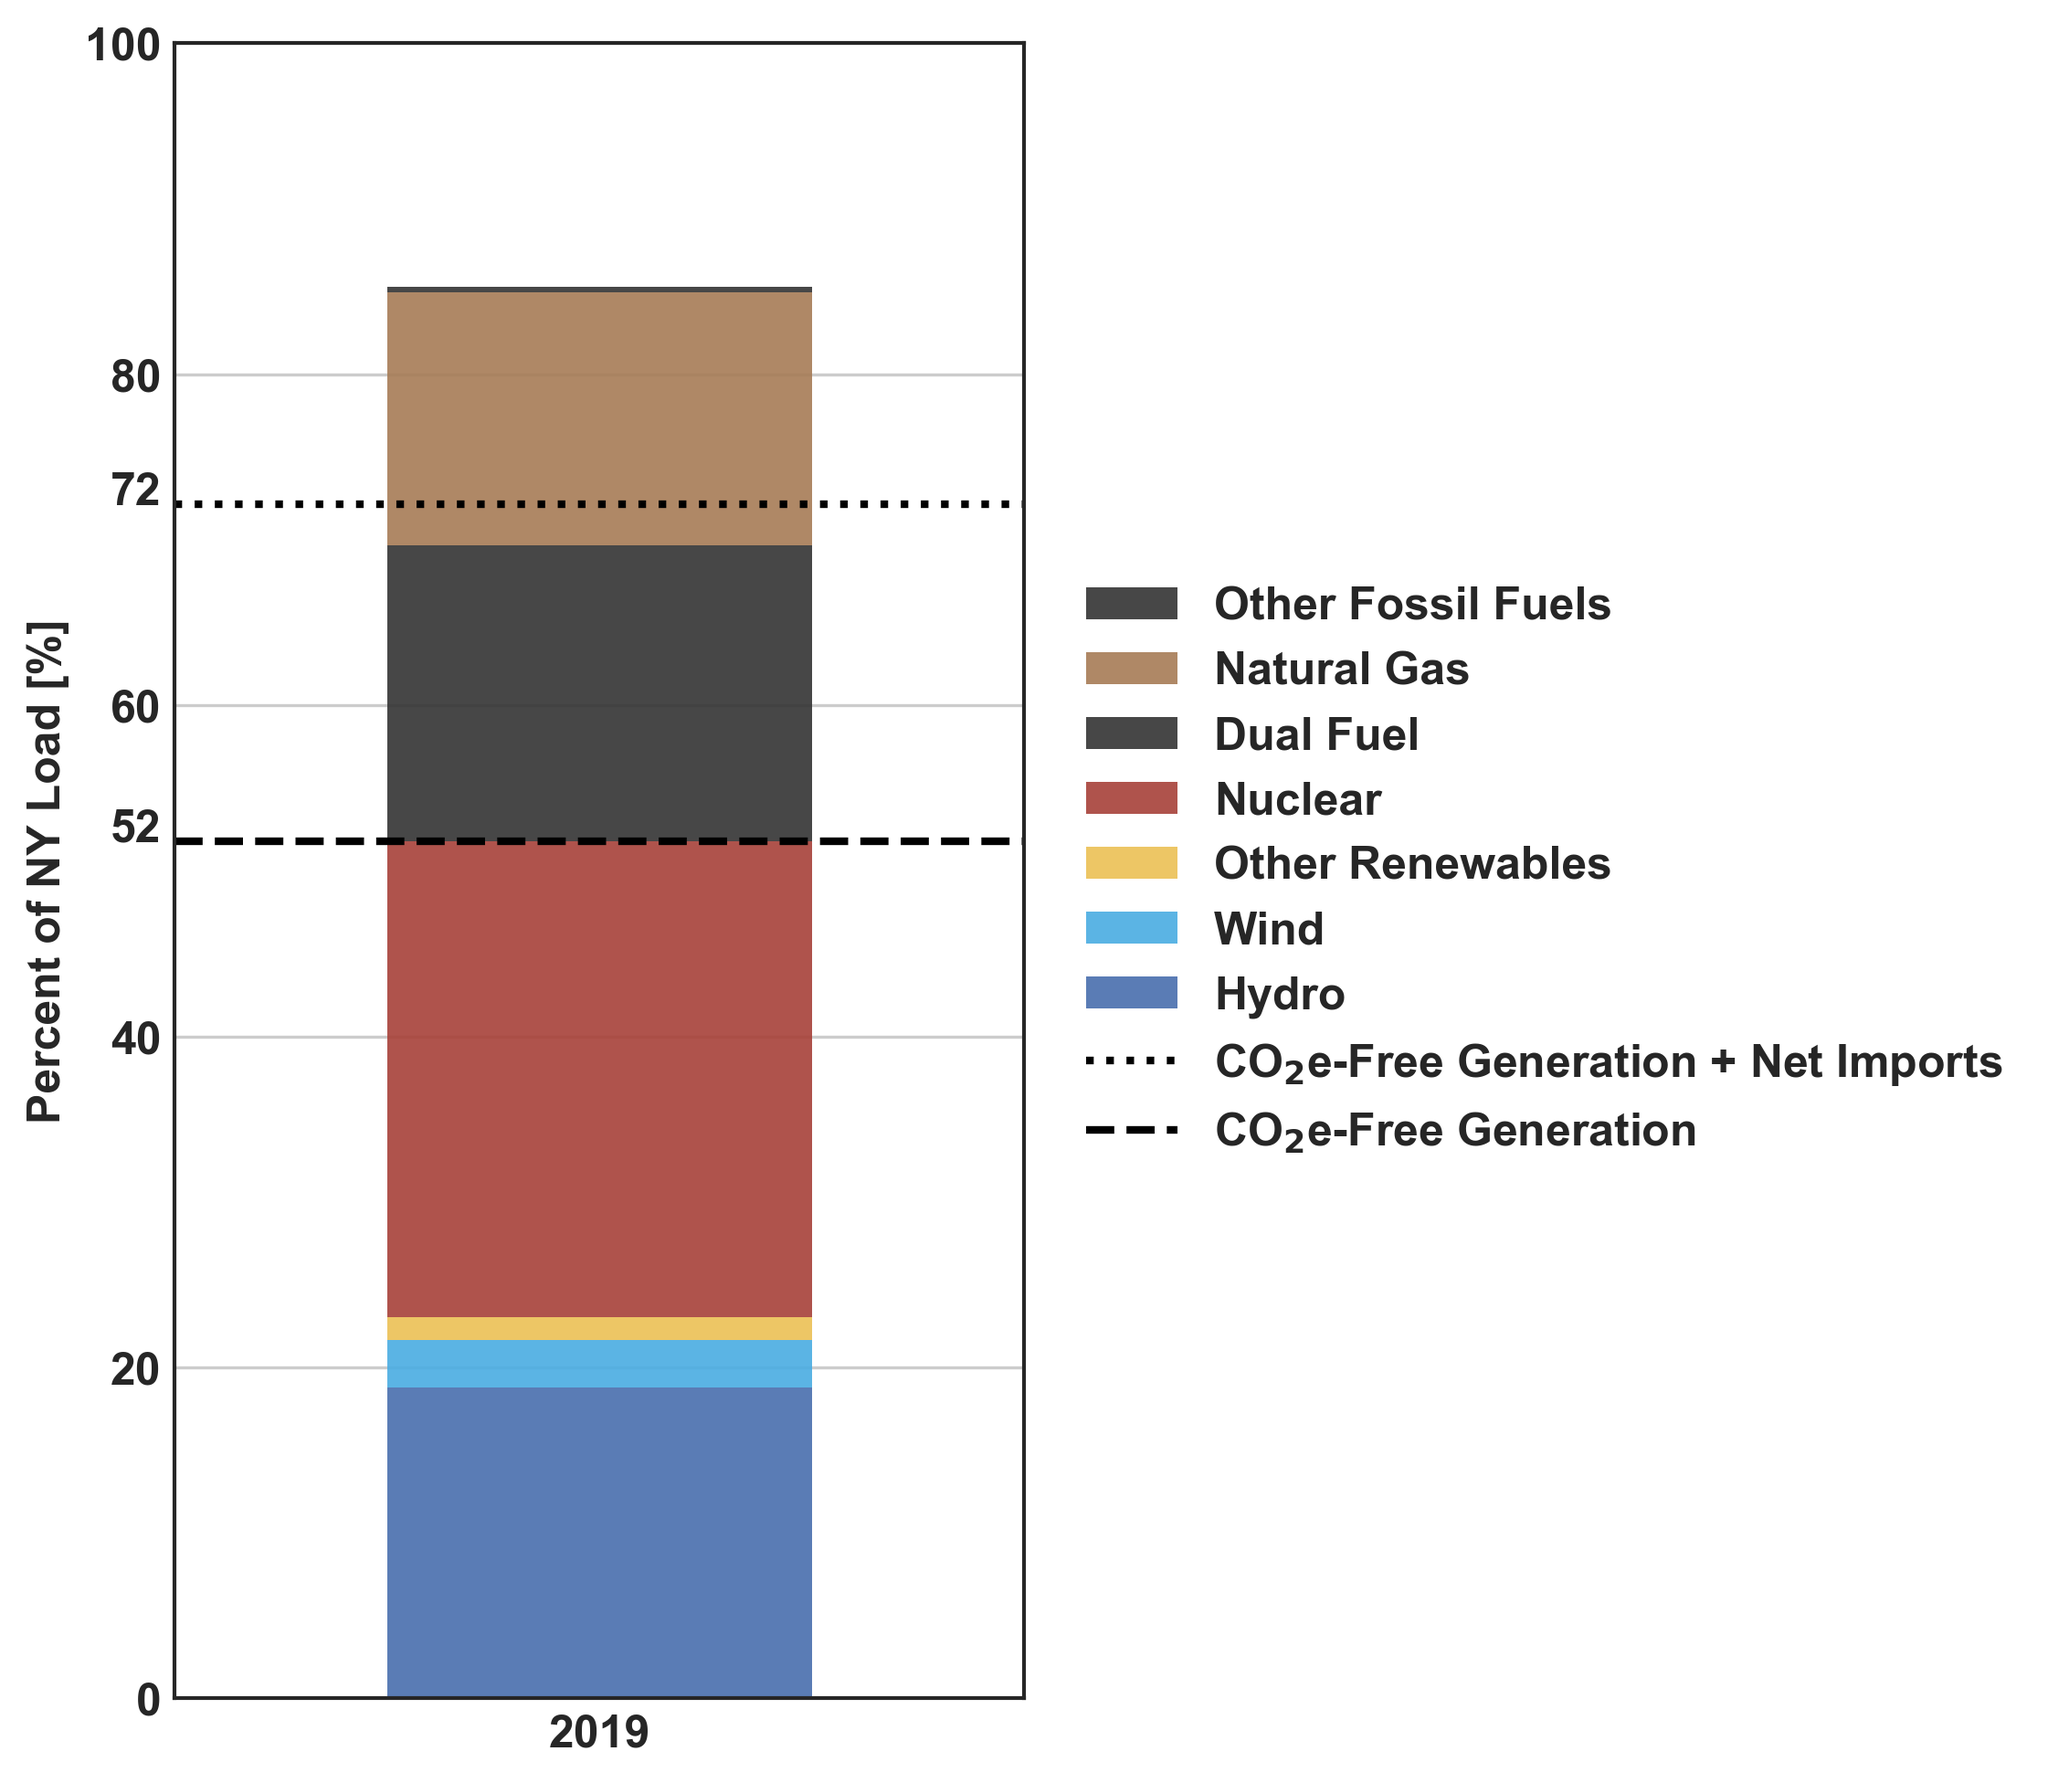
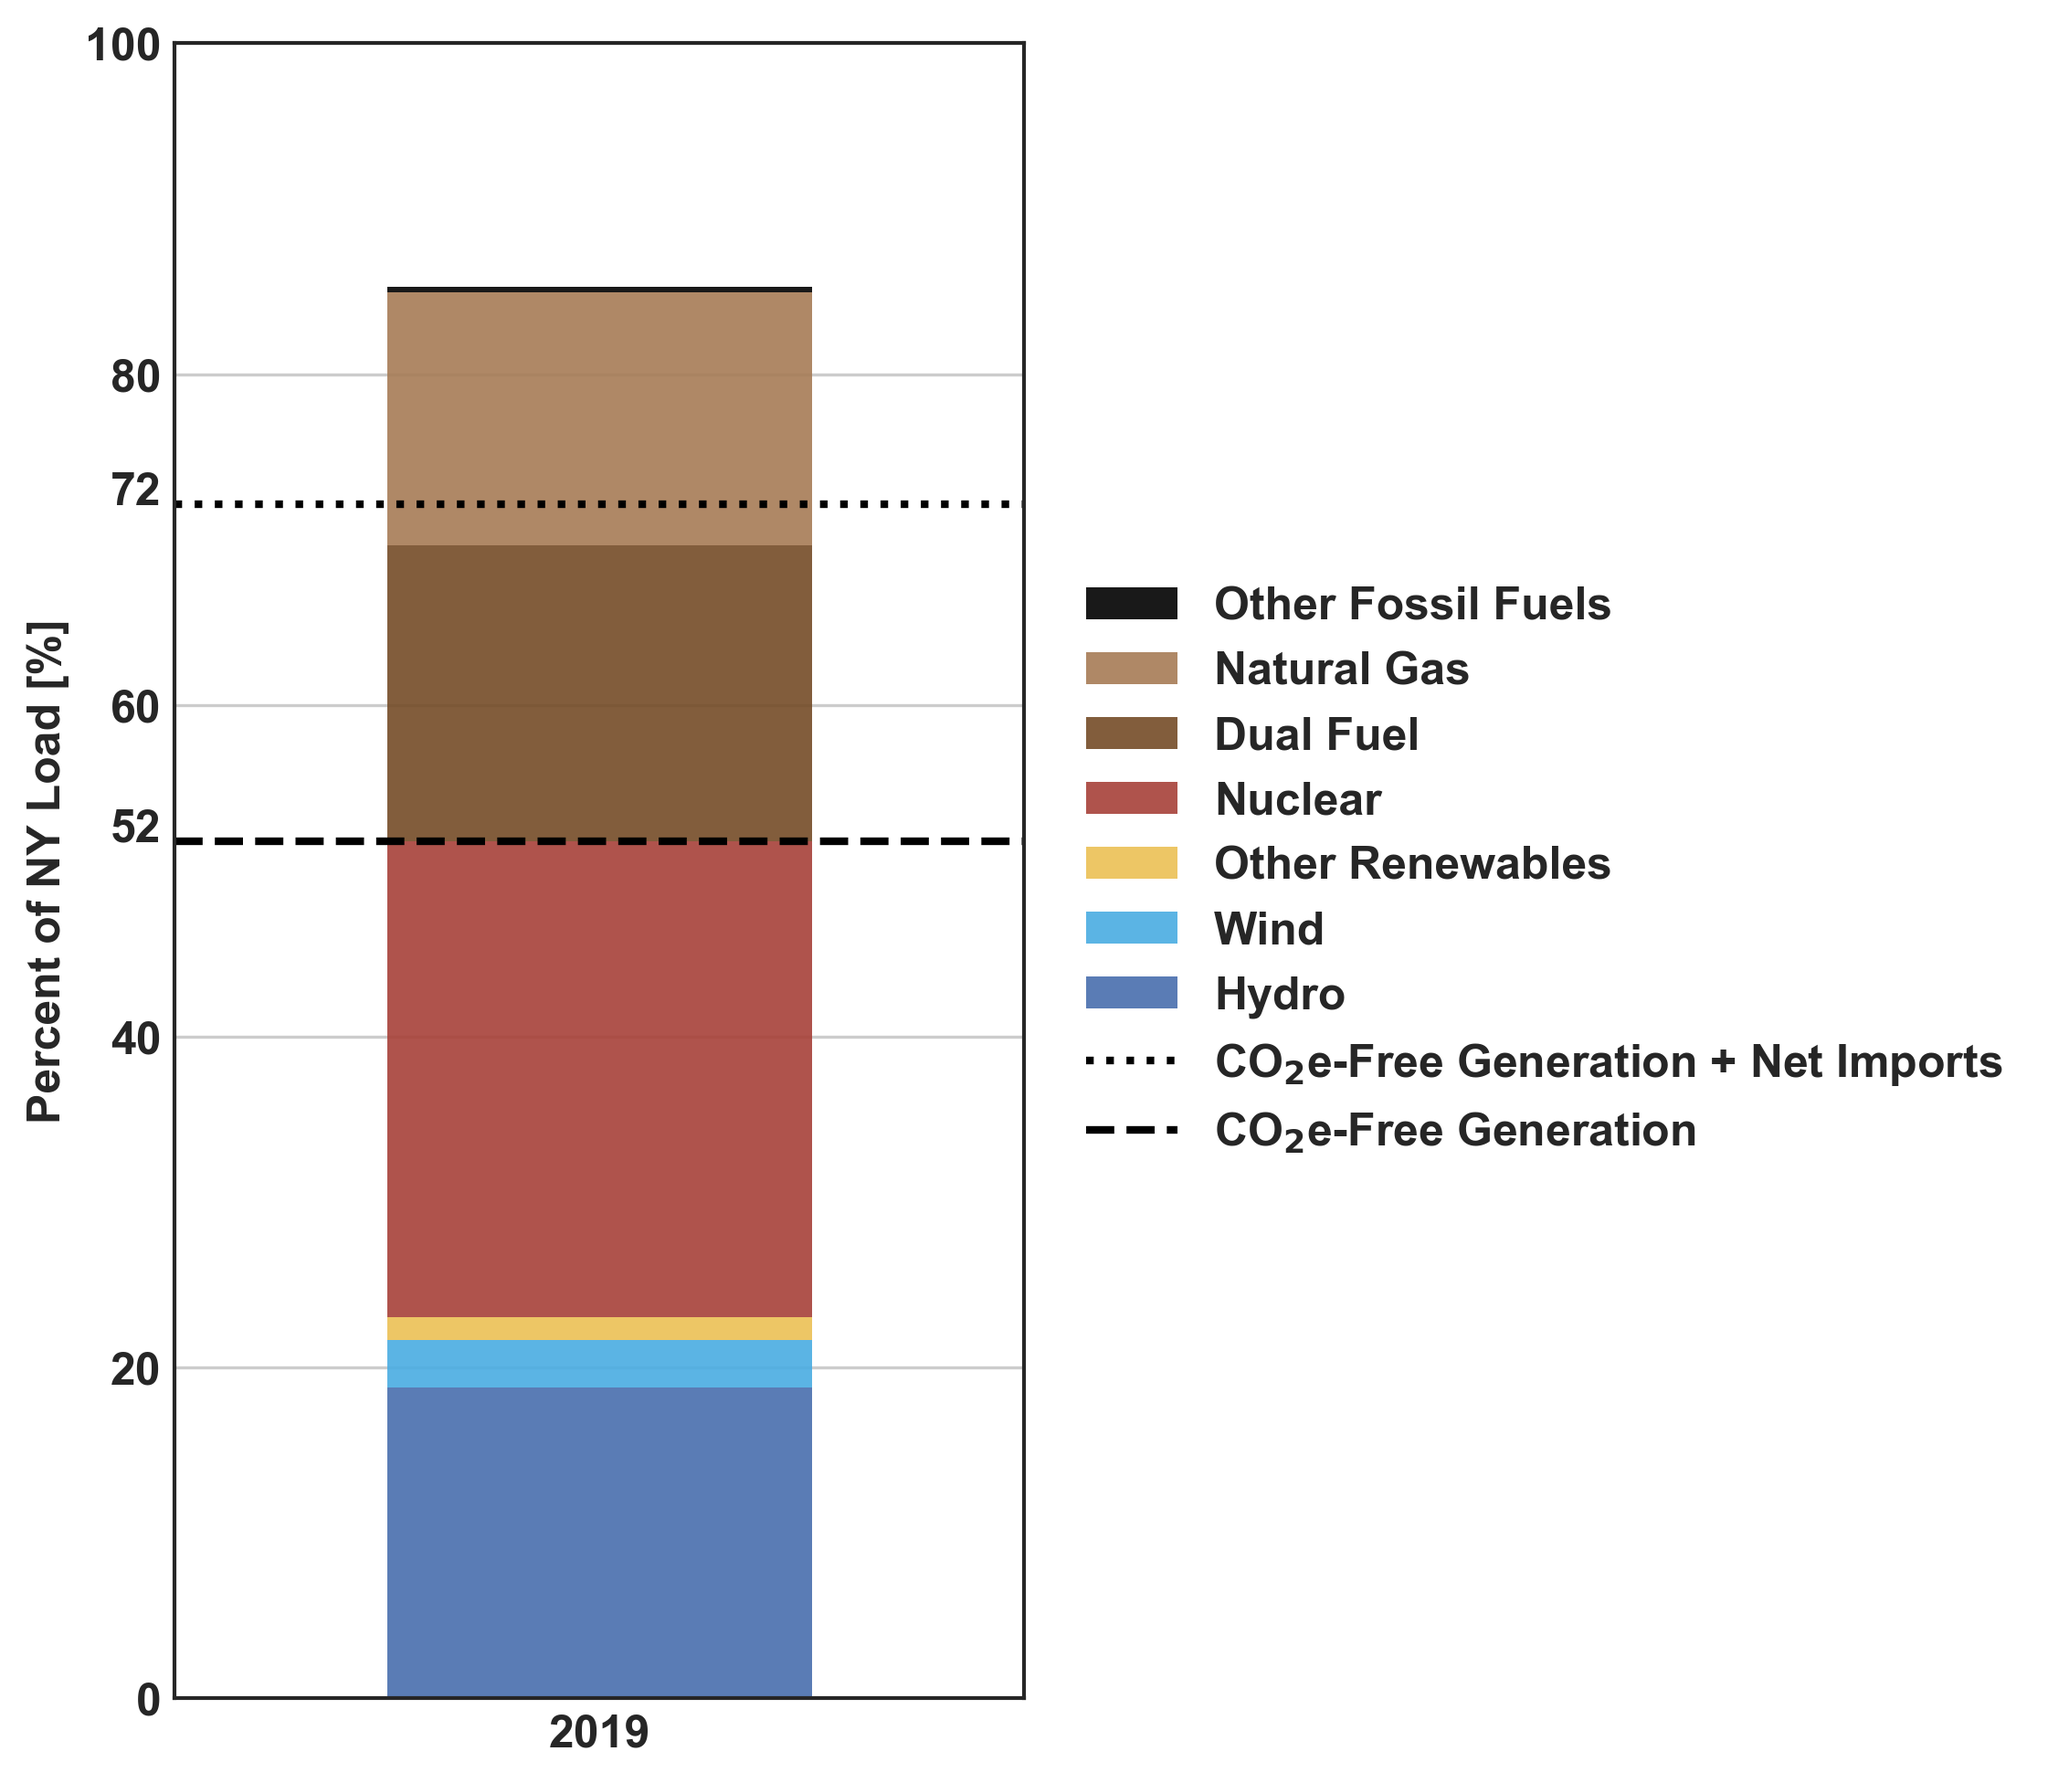
Updated clcpa visualizations and readme

Changed region(s): [[0.1873, 0.2812, 0.4059, 0.4688], [0.5308, 0.3125, 0.5932, 0.4375]]

diff --git a/nyisovis.py b/nyisovis.py
@@ -1,8 +1,6 @@
 # -*- coding: utf-8 -*-
 from nyisodata import NYISOData, EXTERNAL_TFLOWS_MAP
 from nyisostat import NYISOStat
-import pandas as pd
-import matplotlib as mat
 import matplotlib.dates as mdates
 import matplotlib.pyplot as plt 
 import yaml
@@ -24,15 +22,14 @@ with open(leg_path) as file: LEGEND_DEETS = yaml.load(file, Loader=yaml.FullLoad
 
 class NYISOVis:
 
-    
     @staticmethod
     def carbon_free_year(year='2019', out_dir = pl.Path(c_dir,'visualizations')):
         stats = NYISOStat.annual_energy_summary(year=year)
         df = stats['Historical [% of Load]'].drop(index=['Total Carbon Free Generation',
-                                                      'Total Generation',
-                                                      'Net Imports',
-                                                      'Total Generation + Net Imports',
-                                                      'Load'])
+                                                         'Total Generation',
+                                                         'Net Imports',
+                                                         'Total Generation + Net Imports',
+                                                         'Load'])
         df = df.to_frame().T
         #Plot
         fig, ax = plt.subplots(figsize=(4,8))
@@ -61,13 +58,63 @@ class NYISOVis:
         plt.xticks([]); plt.ylim(0,100)
         plt.savefig(pl.Path(out_dir,f'{year}_nyiso_annual_carbon_free_energy.png'), dpi=300, bbox_inches='tight')
         return df
+        
+    @staticmethod
+    def generation(year='2019', f='D', out_dir = pl.Path(c_dir,'visualizations')):
+        if f in ['Y']:
+            print('Frequency Not Supported!')
+            return None
+        
+        #Power [MW]
+        load = NYISOData(dataset='load_5m',year=year).df.tz_convert('US/Eastern')['NYCA']
+        fuel_mix = NYISOData(dataset='fuel_mix_5m',year=year).df.tz_convert('US/Eastern')
+        imports = NYISOData(dataset='interface_flows_5m', year='2019').df.tz_convert('US/Eastern')
+        imports = imports[imports['Interface Name'].isin(EXTERNAL_TFLOWS_MAP.values())]['Flow (MW)']
     
-    def carbon_free_years(years):
-        """Todo: stacked area chart over time using nyisostat annual summary"""
-        return
-    
+        #Energy Converstion [MWh] and Resampling By Summing Energy
+        load = (load * 1/12).resample(f).sum()/1000  #MWh->GWh
+        fuel_mix = (fuel_mix * 1/12).resample(f).sum()/1000   
+        imports = (imports * 1/12 ).resample(f).sum()/1000 
+        
+        #Add Imports to fuel mix
+        fuel_mix['Net Imports'] = imports
+            
+        #Plot Generation
+        df = fuel_mix[['Nuclear','Hydro','Wind','Other Renewables','Dual Fuel', 'Natural Gas','Other Fossil Fuels', 'Net Imports']] #define order 
+        fig, ax = plt.subplots(figsize=(10,5))
+        df.plot.area(ax=ax,
+                     color=[LEGEND_DEETS.get(x, '#333333') for x in df.columns],
+                     alpha=0.9, grid=True, lw=0)
+        plt.ylabel('% of Load Served by NY CO$_2$e-Free Generation')
+        
+        #Load
+        load.plot.line(ax=ax,linestyle='dashed', linewidth=1, color='k', label='Load')
+        
+        #Legend
+        ax.legend(loc='lower center', bbox_to_anchor=(0.5, -0.25),
+                  ncol=5, fancybox=True, shadow=False)
+        #Axis
+        plt.xlabel(''); plt.ylabel('Energy [GWh]')
+        plt.xlim(df.index[0], df.index[-1])
+        if f!='M':
+            locator = mdates.MonthLocator()
+            ax.xaxis.set_major_locator(locator)
+            ax.xaxis.set_major_formatter(mdates.DateFormatter('%b'))
+            plt.xticks(rotation=0)
+            for tick in ax.xaxis.get_major_ticks() + ax.yaxis.get_major_ticks():
+                tick.tick1line.set_markersize(0)
+                tick.tick2line.set_markersize(0)
+            for tick in ax.xaxis.get_major_ticks(): tick.label1.set_horizontalalignment('center')
+        #Save
+        file = pl.Path(out_dir, f'{year}_generation.png')
+        plt.savefig(file, dpi=300, bbox_inches='tight')
+        
+                
     @staticmethod
     def clcpa_carbon_free(year='2019', sort=False, f='D', out_dir = pl.Path(c_dir,'visualizations')):
+        """
+        Inspiration: NYISO Power Trends 2020 - Figure 12: Production of In-State Renewables & Zero-Emission Resources Relative to 2019 Load 
+        """
         if f in ['Y']:
             print('Frequency Not Supported!')
             return None
@@ -88,7 +135,7 @@ class NYISOVis:
     
         #Calculating Energy Fraction [%]
         ef = fuel_mix.div(load, axis='index') * 100
-        carbonfree_sources = ['Hydro','Wind','Other Renewables','Nuclear']
+        carbonfree_sources = ['Nuclear','Hydro','Wind','Other Renewables',]
         ef['percent_carbon_free'] = ef[carbonfree_sources].sum(axis='columns')
                     
         #Plot Generation
@@ -112,7 +159,7 @@ class NYISOVis:
         plt.axhline(y=avg, color='k', linestyle='dashed')
         vert_disp= 0.05
         horizontal_p = 0.65
-        plt.text(horizontal_p, avg/100-vert_disp,
+        plt.text(.05, avg/100-vert_disp,
                  'Average: {:.1f}%'.format(avg), transform=ax.transAxes,
                  bbox=dict(boxstyle="round",ec='black', fc='lightgray'))
         if not sort:
@@ -126,11 +173,11 @@ class NYISOVis:
             plt.text(horizontal_p, 1-vert_disp,
                      '2040 Zero Emission Goal', transform=ax.transAxes,
                      bbox=dict(boxstyle="round",ec='black', fc='lightgray'))
-    
         if sort:
-            plt.xlabel('Days of the Year')
+            #Legend
             ax.legend(ncol=4, bbox_to_anchor=(0.9, -0.05), fancybox=True, shadow=False)
-            #ax.get_xaxis().set_visible(False)
+            #Axes
+            plt.xlabel('Days of the Year')
             plt.xticks([])
             plt.xlim(ef.index[0], ef.index[-1])
             #daily average
@@ -140,7 +187,6 @@ class NYISOVis:
             #save
             file = pl.Path(out_dir, f'{year}_clcpa_carbon_free_sorted.png')
             plt.savefig(file, dpi=300, bbox_inches='tight')
-            
         else:
             #Legend
             handles, labels = ax.get_legend_handles_labels()
@@ -159,11 +205,15 @@ class NYISOVis:
                     tick.tick1line.set_markersize(3)
                     tick.tick2line.set_markersize(3)
                 for tick in ax.xaxis.get_major_ticks(): tick.label1.set_horizontalalignment('center')
-            
-            #save
+            #Save
             file = pl.Path(out_dir, f'{year}_clcpa_carbon_free.png')
             plt.savefig(file, dpi=300, bbox_inches='tight')
             
+    def carbon_free_years(years):
+        """Todo: stacked area chart over time using nyisostat annual summary"""
+        return
+            
 if __name__ == '__main__':
+    NYISOVis.generation(year='2019',f='D')
     NYISOVis.carbon_free_year(year='2019')
-    #NYISOVis.clcpa_carbon_free(year='2019', sort=False, f='D')
+    NYISOVis.clcpa_carbon_free(year='2019', sort=False, f='D')

diff --git a/README.md b/README.md
@@ -1,6 +1,19 @@
 # NYISOToolkit
-Tool for accessing power system data from the New York Independent System Operator. With one line of code you have data ready to analyze with Pandas.
-Source: http://mis.nyiso.com/public/
+Tool for accessing power system data data, generating statistics, and creating visualizations from the New York Independent System Operator. 
+
+# NYISOVis
+The in house visulizations are focused on communicating New York's status in achieving the decarbonization goals outlined by the Climate Leadership and Community Protection Act.
+Here is an example...
+```python
+from nyisovis import NYISOVis
+NYISOVis.carbon_free_year(year='2019', f='D')  #simply pass the year and the frequency you want (daily or monthy is recommended)
+#figure saved in visualization folder
+
+```
+![CLCPA](/visualizations/2019_clcpa_carbon_free.png)
+ 
+# NYISOData
+Dataset Source: http://mis.nyiso.com/public/
 
 Datasets Currently Supported:
 - load_h  (hourly load by NYISO region)
@@ -11,12 +24,12 @@ Datasets Currently Supported:
 - lbmp_dam_h (hourly day-ahead zonal location based marginal price)
 - lbmp_rt_5m (5-min reak time zonal location based marginal price)
 
-All datasets...
+All datasets:
 - Timezone: Coordinated Universal Time [UTC]
 - Frequency: Hourly or 5-mins. The raw data sometimes has higher or lower frequency than intended, but this library uses mean values to resample at the intended frequency. When interpolations are necessary, they are made. Some datasets only come in one frequency.
 - Datetime Convention: Start. The value(s)/measurement(s) associated with each timestamp occurred in the time period before the start of the next timestamp.
 
-# Usage Example
+Usage Example
 ```python
 from nyisodata import NYISOData
 df = NYISOData(dataset='load_h', year='2019').df # year argument in local time, but returns dataset in UTC 
